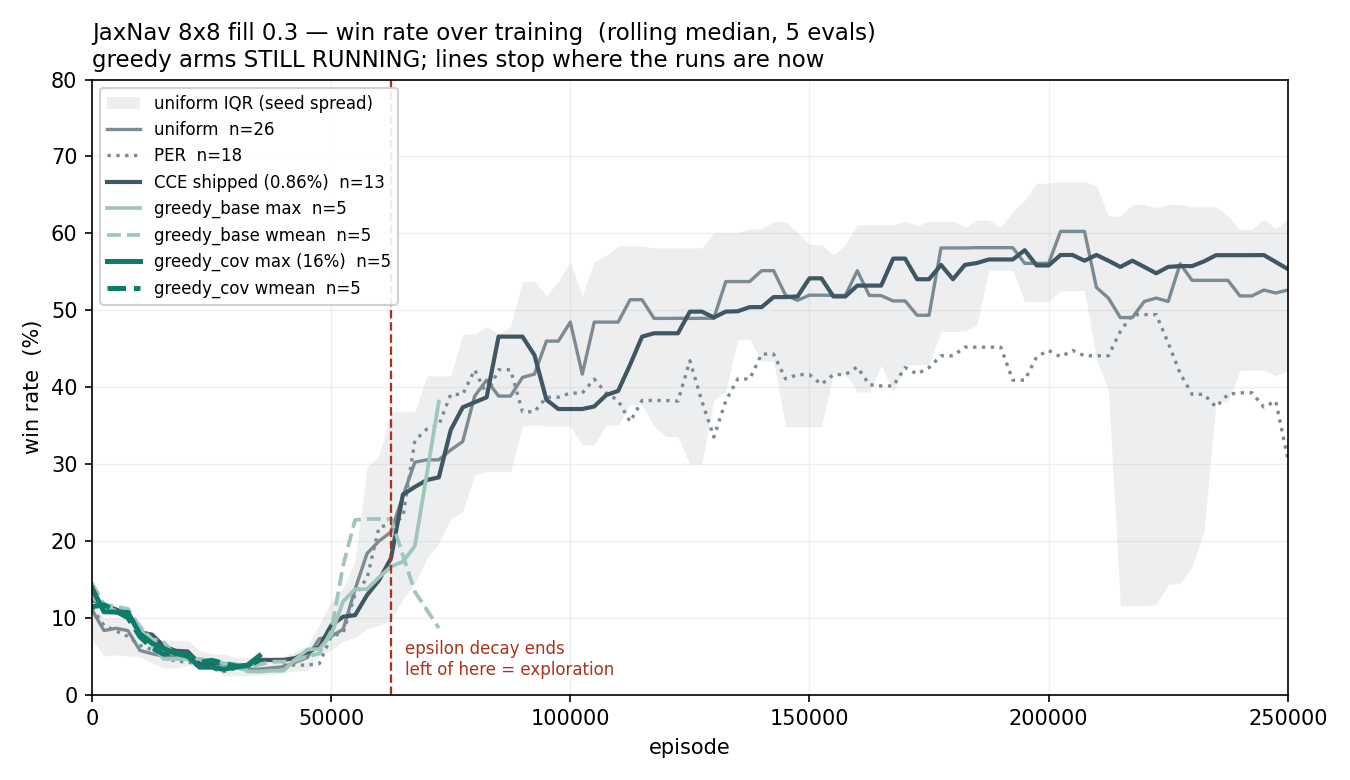
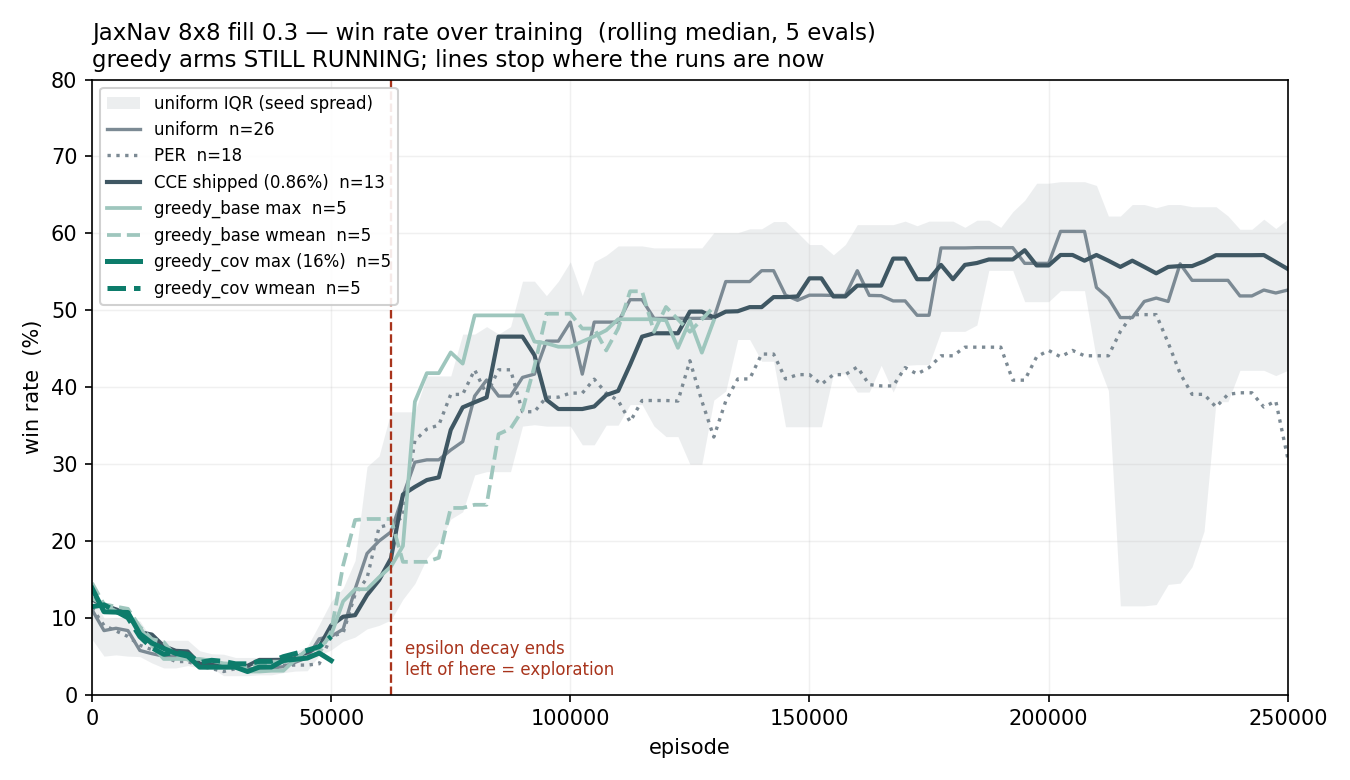
Capacity-collapse curves; cancel the cce_8192_i4 arm
Adds a --capacity arm-set to the learning-curve module: every buffer-shrink arm
against uniform and full-capacity CCE at fill 0.3 / 250k.

WHAT THE CURVES SHOW THAT THE FINAL NUMBERS DID NOT. The shrunk buffers do not
simply fail -- they RISE FASTER, then decay:

    arm            n   peak win%   at episode   final win%
    uniform        8      67.8%      216,158       52.6%
    cce_base       8      64.9%      202,548       41.5%
    cce_8192       8      27.4%       82,058       11.6%
    cce_8192_i4    8      28.1%       83,528       11.6%
    cce_2500       8      15.4%       29,598        9.1%

The 8,192 arms peak around episode 82,000 and lose ~16 points by the end. A buffer
smaller than the collection burst trains only on recent experience: fast at first,
then it forgets. That is a different failure from "never learns", and it is not
visible in a final-value table.

cce_8192_i4 tracks cce_8192 almost exactly. 4x the scoring frequency at capacity
8,192 changes nothing -- an independent confirmation, at 250k and n=8, that the
frequency lever does not rescue a collapsed arm.

CANCELLED array 275325 (6 remaining cce_8192_i4 jobs, 20.5h elapsed, 71-96% done,
every seed in the 7-18% band against a 40% solve threshold). Verdict was not in
doubt and the cluster had 0 idle nodes. Two seeds had already completed.

The curve module now admits CANCELLED runs, for CURVES ONLY, with a comment on
why: an operator cancellation says nothing about the run, and curve-vs-episode is
[…]

diff --git a/analysis/claim2/greedy_learning_curves.py b/analysis/claim2/greedy_learning_curves.py
@@ -77,7 +77,7 @@ def _label(cfg, arm):
     return "cce_base_bs"
 
 
-def collect():
+def collect(label_fn=None):
     jobs = {}
     for p in glob.glob(os.path.join(DATA, "manifest_*.json")):
         if "smoke" in p:
@@ -101,8 +101,15 @@ def collect():
 
     series = collections.defaultdict(list)
     for jid, (cfg, arm) in jobs.items():
-        lab = _label(cfg, arm)
-        if lab is None or state.get(jid) not in ("COMPLETED", "RUNNING"):
+        lab = (label_fn or _label)(cfg, arm)
+        # CANCELLED is admitted for CURVES ONLY, and only because the cancellation
+        # was an operator decision (freeing GPUs on 2026-09-10), not anything about
+        # the run. FAILED / TIMEOUT / NODE_FAIL stay excluded: keying off "has a
+        # metrics.log" once counted crashed runs as "never solved" and biased the
+        # arms unevenly. A curve-vs-episode is unbiased by early truncation; a
+        # FINAL-value comparison is NOT, because cancelled runs stopped at
+        # 71-96% of training. Never take a final number from a CANCELLED run.
+        if lab is None or state.get(jid) not in ("COMPLETED", "RUNNING", "CANCELLED"):
             continue
         rid = raw.get(jid, jid)
         f = os.path.join(RUNS, rid, "eval.jsonl")
@@ -147,7 +154,41 @@ def collect():
     return curves
 
 
-def write_png(curves):
+# ── Second arm-set: the CAPACITY collapse (issues #17, #22) ──────────────────────
+# Everything here shrinks the buffer to force coverage up, which is the confound the
+# greedy arms exist to avoid: below the 8,192-transition insert burst, part of every
+# chunk is overwritten before a single gradient step sees it. cce_8192 is the exact
+# break-even (largest shrink that discards nothing); cce_8192_i4 adds 4x scoring
+# frequency on top of it and is the only 250k outcome test of the frequency lever.
+CAP_STYLE = [
+    ("uniform",      "uniform  (no CCE)",          "#7c8a94", "-",  1.8),
+    ("cce_base_bs",  "CCE, buffer 100,000",        "#3f5763", "-",  2.2),
+    ("cce_8192",     "buffer 8,192  (break-even)", "#c98a5a", "-",  1.8),
+    ("cce_8192_i4",  "buffer 8,192, 4x scoring",   "#a8341c", "-",  2.2),
+    ("cce_2500",     "buffer 2,500",               "#8a6a9c", "-",  1.5),
+    ("cce_1000",     "buffer 1,000",               "#8a6a9c", "--", 1.5),
+    ("cce_500",      "buffer 500",                 "#8a6a9c", ":",  1.5),
+]
+
+
+def _label_capacity(cfg, arm):
+    if cfg.get("algorithm") == "dqn-uniform":
+        return "uniform"
+    if cfg.get("algorithm") != "consequence-dqn":
+        return None
+    if arm in ("cce_8192", "cce_8192_i4", "cce_2500", "cce_1000", "cce_500"):
+        return arm
+    # the full-capacity reference: shipped multiplicative CCE, bootstrapped, R=20
+    if (cfg.get("buffer_capacity") or 100_000) != 100_000:
+        return None
+    if cfg.get("score_interval") != 250 or cfg.get("cf_n_rollouts") != 20:
+        return None
+    if cfg.get("priority_mixing") != "multiplicative" or not cfg.get("cf_bootstrap"):
+        return None
+    return "cce_base_bs"
+
+
+def write_png(curves, style=None, title=None, out_name=None):
     import matplotlib
     matplotlib.use("Agg")
     import matplotlib.pyplot as plt
@@ -156,7 +197,7 @@ def write_png(curves):
     if u is not None:
         ax.fill_between(GRID, u["lo"], u["hi"], color="#7c8a94", alpha=.14, lw=0,
                         label="uniform IQR (seed spread)")
-    for key, lab, colour, ls, lw in STYLE:
+    for key, lab, colour, ls, lw in (style or STYLE):
         c = curves.get(key)
         if c is None:
             continue
@@ -167,15 +208,15 @@ def write_png(curves):
             fontsize=8, color="#a8341c", va="bottom")
     ax.set_xlabel("episode")
     ax.set_ylabel("win rate  (%)")
-    ax.set_title("JaxNav 8x8 fill 0.3 — win rate over training  (rolling median, 5 evals)\n"
-                 "greedy arms STILL RUNNING; lines stop where the runs are now",
+    ax.set_title(title or ("JaxNav 8x8 fill 0.3 — win rate over training  (rolling median, 5 evals)\n"
+                 "greedy arms STILL RUNNING; lines stop where the runs are now"),
                  fontsize=11, loc="left")
     ax.set_xlim(0, 250_000)
     ax.set_ylim(0, 80)
     ax.grid(alpha=.18, lw=.7)
     ax.legend(fontsize=8, loc="upper left", framealpha=.9)
     fig.tight_layout()
-    out = os.path.join(OUTDIR, "greedy_learning_curves.png")
+    out = os.path.join(OUTDIR, out_name or "greedy_learning_curves.png")
     fig.savefig(out)
     print("wrote", out)
 
@@ -269,6 +310,16 @@ def write_svg(curves):
 
 
 if __name__ == "__main__":
+    import sys
+    if "--capacity" in sys.argv:
+        cv = collect(_label_capacity)
+        for k, v in sorted(cv.items()):
+            print(f"  {k:<16} n={v['n']:<3} reaches {v['reach']:>9,.0f} episodes")
+        write_png(cv, CAP_STYLE,
+                  "JaxNav 8x8 fill 0.3 — shrinking the buffer to buy coverage\n"
+                  "every reduced-capacity arm collapses; 4x scoring does not rescue it",
+                  "capacity_learning_curves.png")
+        raise SystemExit(0)
     cv = collect()
     for k, v in sorted(cv.items()):
         print(f"  {k:<18} n={v['n']:<3} reaches {v['reach']:>9,.0f} episodes")
